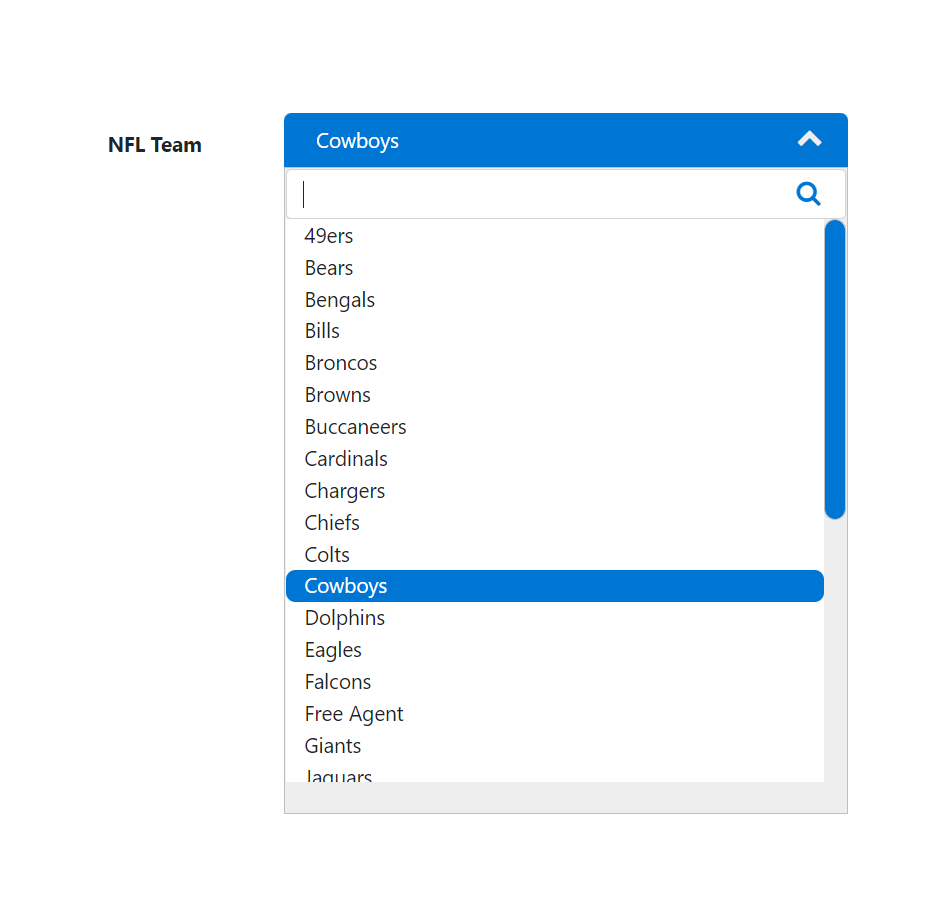
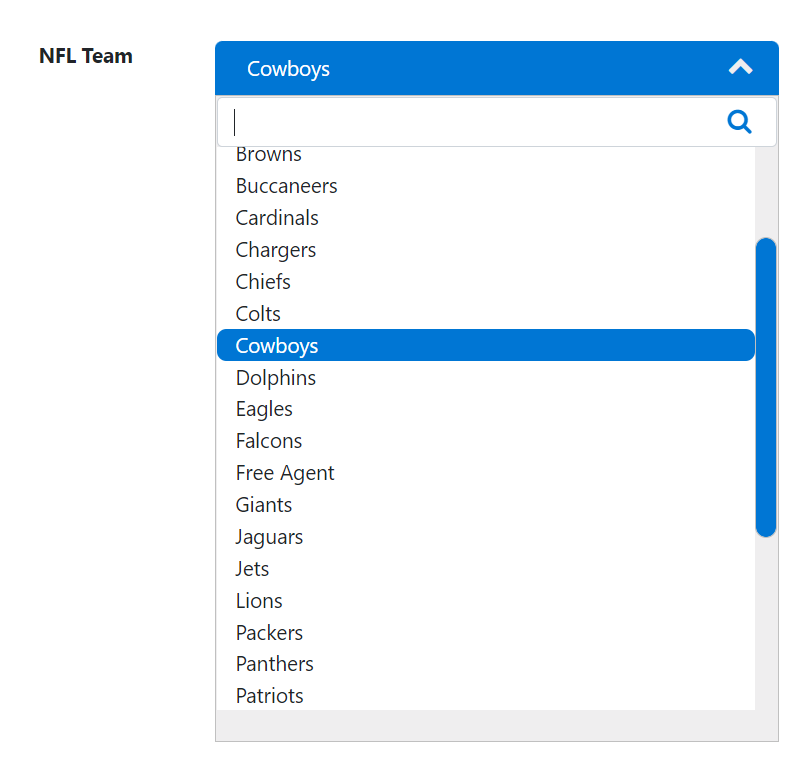
pictures

Changed region(s): [[0.2491, 0.0301, 0.9963, 0.9332], [0.0311, 0.0602, 0.1868, 0.0903], [0.0934, 0.1505, 0.2179, 0.1806]]

diff --git a/jquery.dropdownsearchlist/Index.html b/jquery.dropdownsearchlist/Index.html
@@ -15,7 +15,14 @@
         <h4>jQuery DropdownSearchList</h4>
         jQuery DropdownSearchList is a jquery plugin to allow you to support a larger list of items and have search capability to filter the list.
         <br />
-        <img src="dropdownsearchlist.png" height="260" /><br />
+        <div class="d-flex mb-3">
+            <div>
+                <img src="dropdownsearchlist1.png" height="260" /><br />
+            </div>
+            <div>
+                <img src="dropdownsearchlist.png" height="260" /><br />
+            </div>
+        </div>
         <h4>Usage</h4>
         <div style="font-size:smaller">
             <pre>
@@ -33,7 +40,7 @@
             
             $("#plugin-area").createddsearchlist({
             "payload": items,
-            "defaultId": "3a87e465-aec0-df11-b8ec-00155da0f700",
+            "defaultId": "12",
             "fontSize": "11px",
             "searchPosition":"top", //Or bottom
             "label": "NFL Team",
@@ -44,7 +51,7 @@
             </pre>
         </div>
     </div>
-    <div class="d-flex" style="font-size:14px">
+    <div class="d-flex" style="font-size:14px;margin-bottom:50px">
       
         <div style="width:400px;margin-left:200px;padding-top:150px" id="plugin-area"></div>
 
@@ -57,7 +64,7 @@
         var items = [{ "id": "1", "name": "49ers" }, { "id": "2", "name": "Bears" }, { "id": "3", "name": "Bengals" }, { "id": "4", "name": "Bills" }, { "id": "5", "name": "Broncos" }, { "id": "6", "name": "Browns" }, { "id": "7", "name": "Buccaneers" }, { "id": "8", "name": "Cardinals" }, { "id": "9", "name": "Chargers" }, { "id": "10", "name": "Chiefs" }, { "id": "11", "name": "Colts" }, { "id": "12", "name": "Cowboys" }, { "id": "13", "name": "Dolphins" }, { "id": "14", "name": "Eagles" }, { "id": "15", "name": "Falcons" }, { "id": "33", "name": "Free Agent" }, { "id": "16", "name": "Giants" }, { "id": "17", "name": "Jaguars" }, { "id": "18", "name": "Jets" }, { "id": "19", "name": "Lions" }, { "id": "20", "name": "Packers" }, { "id": "21", "name": "Panthers" }, { "id": "22", "name": "Patriots" }, { "id": "23", "name": "Raiders" }, { "id": "24", "name": "Rams" }, { "id": "25", "name": "Ravens" }, { "id": "26", "name": "Redskins" }, { "id": "27", "name": "Saints" }, { "id": "28", "name": "Seahawks" }, { "id": "29", "name": "Steelers" }, { "id": "30", "name": "Texans" }, { "id": "31", "name": "Titans" }, { "id": "32", "name": "Vikings" }];
         $("#plugin-area").createddsearchlist({
             "payload": items,
-            "defaultId": "3a87e465-aec0-df11-b8ec-00155da0f700",
+            "defaultId": "12",
             "fontSize": "11px",
             "searchPosition":"top",
             "label": "NFL Team",
